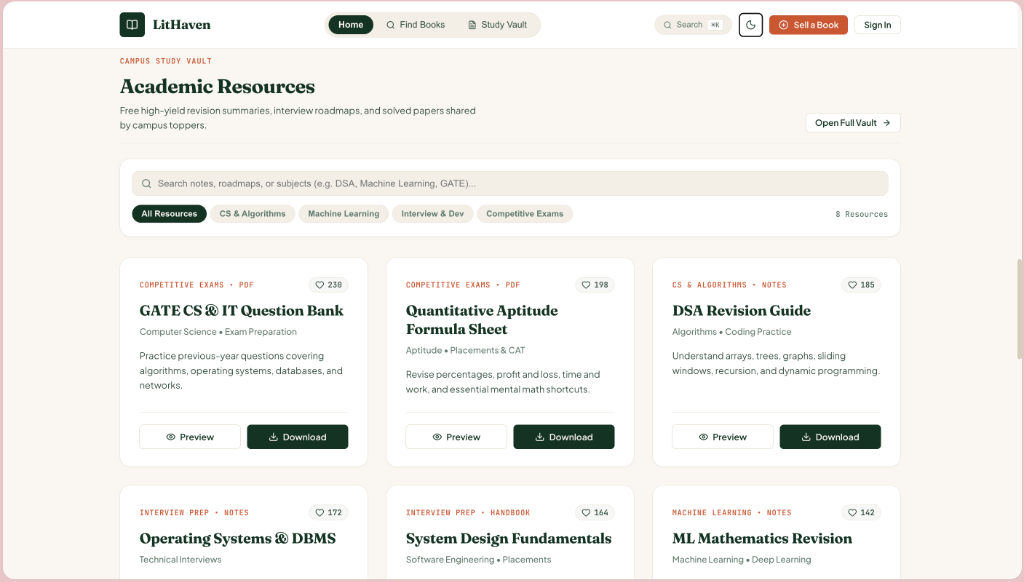
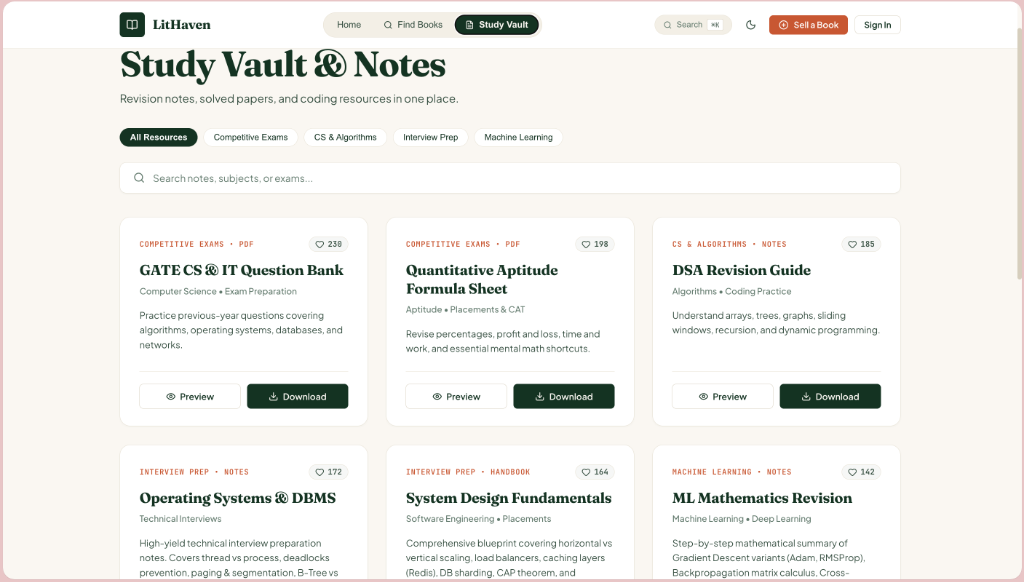
docs: add direct chat and book listing live preview screenshots

diff --git a/README.md b/README.md
@@ -110,6 +110,30 @@
 
 </details>
 
+<br/>
+
+<details open>
+<summary>💬 <strong>Inquiries, Offers & Direct Campus Chat</strong></summary>
+<br/>
+
+<p align="center">
+  <img src="./assets/screenshots/messages_chat.png" alt="Direct Campus Chat and Offer Negotiation" width="100%" style="border-radius: 8px;" />
+</p>
+
+</details>
+
+<br/>
+
+<details open>
+<summary>⚡ <strong>Sell a Book with Real-Time 3D Card Preview</strong></summary>
+<br/>
+
+<p align="center">
+  <img src="./assets/screenshots/sell_book_preview.png" alt="Book Listing Creation with Live 3D Card Preview" width="100%" style="border-radius: 8px;" />
+</p>
+
+</details>
+
 ---
 
 ## 🏗 Architecture & Data Models
